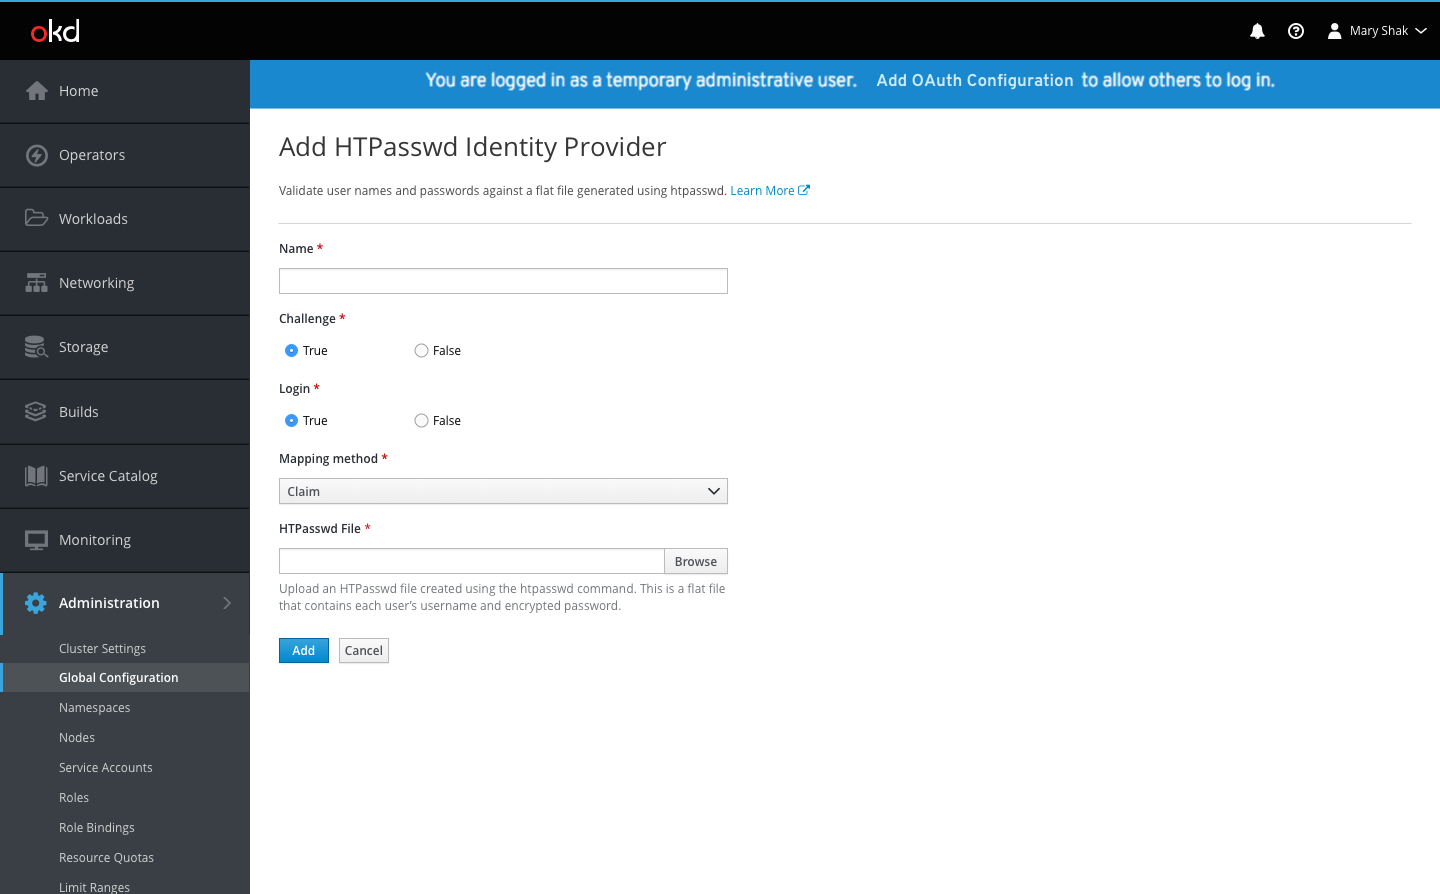
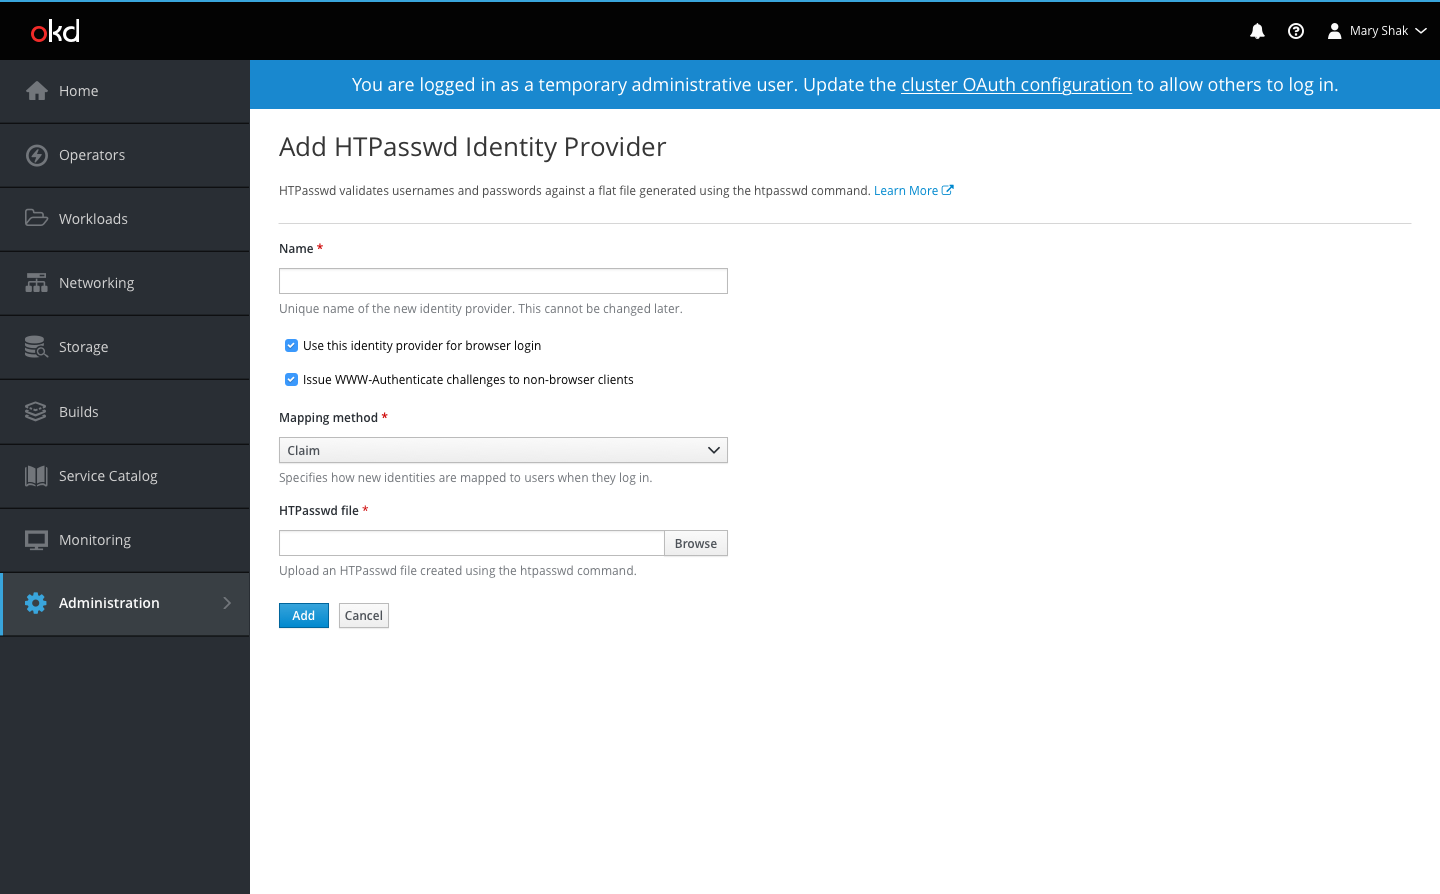
Updating IDPs documentation

diff --git a/web-console/futures/oauth/oauth.md b/web-console/futures/oauth/oauth.md
@@ -1,33 +1,29 @@
 # OAuth Global Configuration
 
-- The [Global Configuration](http://openshift.github.io/openshift-origin-design/web-console/4.0-designs/global-config/global-config) page can be found under the Administration section of the navigation.
-
-![1](img/list.png)
-
-- OAuth is one of the global configuration resources in the list.
-- Users can either navigate to the OAuth detail page by clicking on the OAuth resource name from the cluster settings area or they can navigate directly from the link in the blue banner (when it appears for initial setup).
-
-![2](img/v3-1.png)
-
 - Users may be logged in as temporary administrators until they set up identity providers.
-- When this is the case, a blue banner will appear at the top of all pages with a link to the OAuth configuration page, where users can take the necessary action to add an identity provider.
+- When this is the case, a blue banner will appear at the top of all pages with a link to the OAuth configuration page, where users can take the necessary action to add an identity provider (IDP).
 
-![3](img/empty-state.png)
+![1](img/combo-list.png)
 
-- General OAuth details are displayed at the top of the Overview tab while the Identity Providers section is displayed underneath.
-- If no identity providers (IDPs) exist, there is an empty state to define what they are and provide a link to documentation.
+- Users can also get to the OAuth configuration page from the Cluster Operators tab on the Cluster Settings page.
+- OAuth is one of the [global configuration](http://openshift.github.io/openshift-origin-design/web-console/4.0-designs/global-config/global-config) resources in the list.
+
+![2](img/combo-empty.png)
+
+- General OAuth details are displayed at the top of the Overview tab while the identity providers section is displayed underneath.
+- If no identity providers exist, there is an empty state to define what they are and provide a link to documentation.
 - The primary `Add` action button provides options to create one of the various IDP types.
 - Selecting an IDP type will open a full page form for the user to provide the relevant configuration details.
 - Each IDP type will have different fields in the form pertaining specifically to that type. See [IDP forms](/#IDP-Forms) below for details.
 
-![4](img/long-list.png)
+![3](img/combo-OAuth.png)
 
 - Once complete, the IDP will be added to the details page in a list view.
 - Users can create multiple IDPs of different or of the same type.
 - Display name will be used to differentiate between IDPs of the same type.
 - All IDPs will appear in the list with the name, type, challenge, and login columns displayed.
 - When Edit and Delete actions become available, they will be displayed in the kebab menu on the right side of the list.
-- Clicking edit from the kebab menu will open a full page form for users to update any editable fields and save changes.
+- Clicking edit from the kebab menu will open the IDPs YAML.
 
 
 ## IDP Forms
@@ -36,8 +32,14 @@
 - Where appropriate, section headers may be used to divide the form into sub sections.
 
 ### HTPasswd
-![5](img/HTPasswd.png)
+![4](img/HTPasswd.png)
 
 
 ### OpenID
-![6](img/openID.png)
+![5](img/openID.png)
+
+
+## IDP Overview pages
+![6](img/combo-idp-overview.png)
+- The details view of IDPs should have an Overview and a YAML tab, where users can edit the IDPs.
+- Breadcrumbs will be shown to help the user navigate back to the OAuth configuration page or the Cluster Operators tab on the Cluster Settings page.
